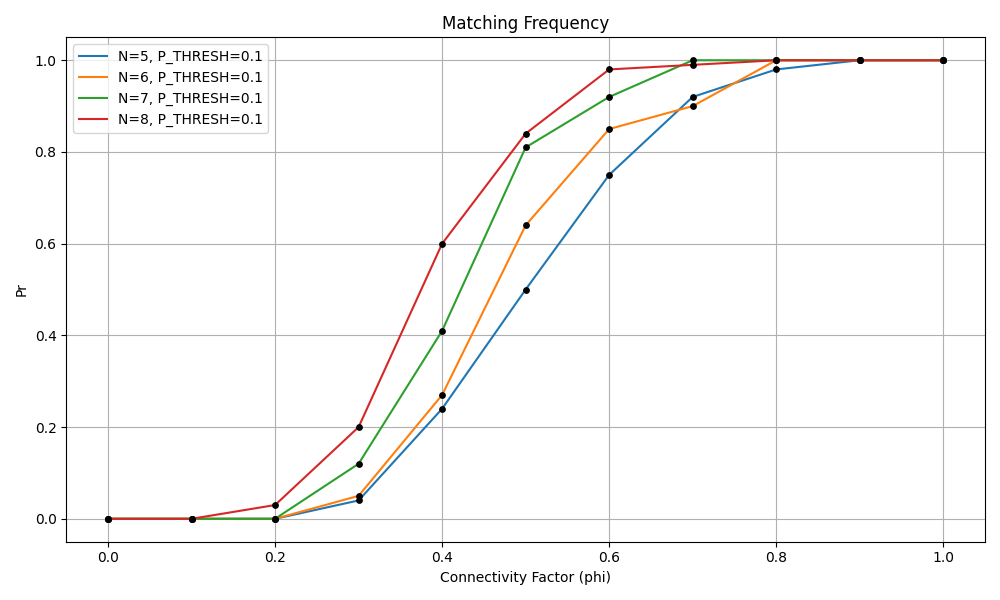
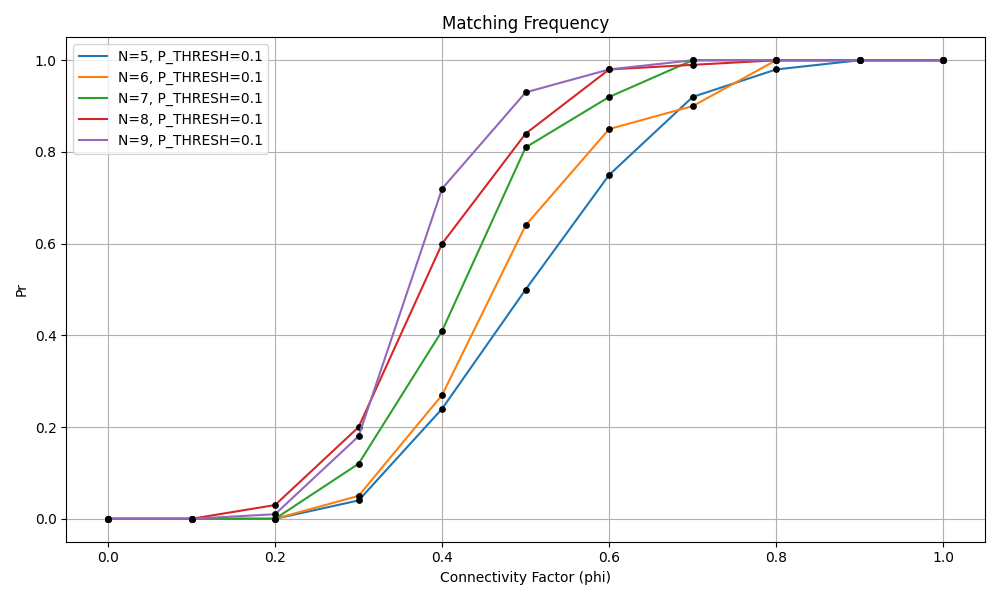
N=9

diff --git a/data_viewer.py b/data_viewer.py
@@ -4,7 +4,7 @@ N_list = []
 P_THRESH_list = []
 pr_list = []
 
-paths = ["data_20241204_150855_5_10.h5","data_20241204_123442_6_10.h5","data_20241204_115953_7_10.h5","data_20241204_183635_8_10.h5"]
+paths = ["data_20241204_150855_5_10.h5","data_20241204_123442_6_10.h5","data_20241204_115953_7_10.h5","data_20241204_183635_8_10.h5","data_20241205_071416_9_10.h5"]
 
 for path in paths:
     N, P_THRESH, phis, matching_frequencies, pr = tools.load_data(f"data/{path}")
